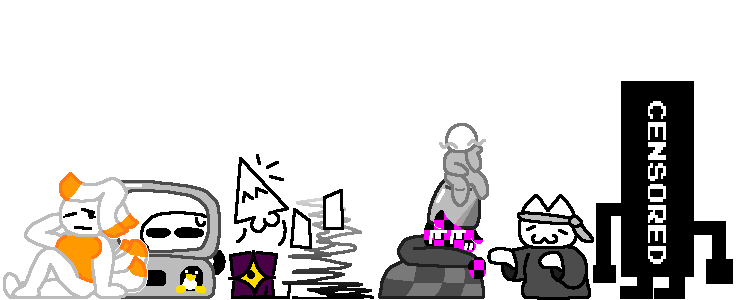
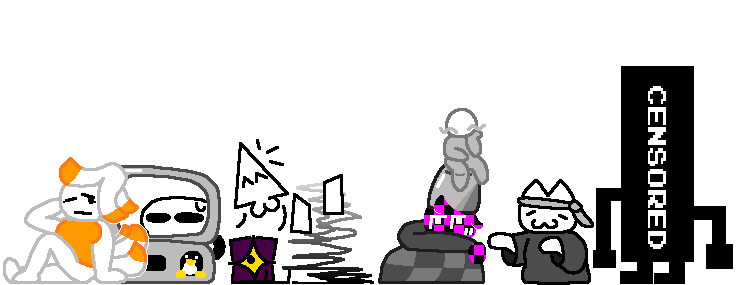
good enough Lol

diff --git a/public/home.html b/public/home.html
@@ -439,9 +439,9 @@
             <p>
               Other things i like are minecraft, Battle Cats, nubby's number factory, and some random other things.
             </p>
-            <br>
-            <br>
-            <br>
+            <div class="imagefooter" style="scale: 116.78%;image-rendering: crisp-edges;">
+              <img src="images/banna.png">
+            </div>
           </div>
         </div>
 

diff --git a/public/banner.html b/public/banner.html
@@ -482,6 +482,8 @@ input[type=range] {
               <a href="https://fwonsh.neocities.org/"><img src="images/fwonsh_sitebutton.gif"></a>
               <a href="https://rickgottaken.nekoweb.org"><img src="https://rickgottaken.nekoweb.org/images/88x31/rickgottaken.nekoweb.org.gif"></a>
               <a href='https://ihatetehbsod.neocities.org'><img src='https://ihatetehbsod.neocities.org/bsod.png'/></a> 
+              <a href='https://www.buttonsthebeans.fun/'><img src='images/Button-Button.png'/></a> 
+              <a href='https://retailshrimp.neocities.org/'><img src='images/retailshrimpbutton.png'/></a> 
               <iframe width="88" height="31" style="border:none" src="https://melonsoda.nekoweb.org/button.html" name="buttonlink"></iframe>
               </p>
             </div> 